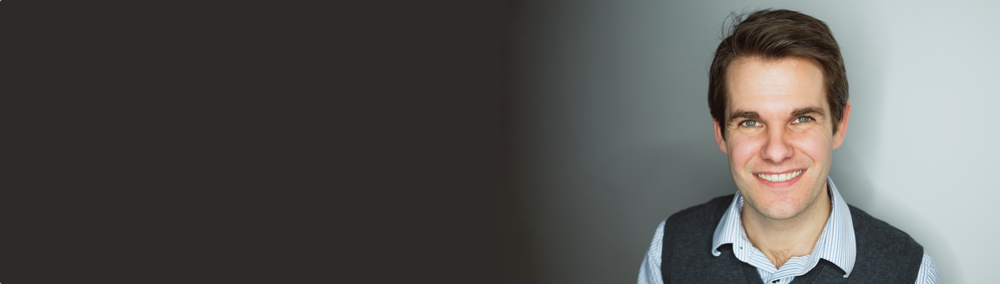
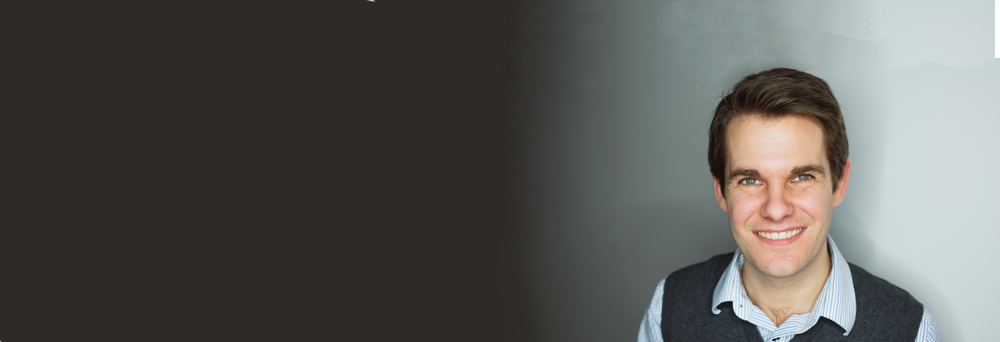
Layout for extremely basic site.

Changed region(s): [[0.62, 0.0282, 0.93, 1.0], [0.992, 0.0, 1.0, 0.169], [0.899, 0.9577, 0.93, 0.9859]]

diff --git a/_includes/header.html b/_includes/header.html
@@ -1,27 +1,10 @@
 <header class="site-header">
 
-  <div class="wrapper">
+  <div class="page-content">
 
     <a class="site-title" href="{{ site.baseurl }}/">
-        <img class='header-profile-image' src="/images/ryan.png" />
-        {{ site.title }}
+        <img class='header-profile-image' src="/images/logo.png" />
     </a>
-
-    <nav class="site-nav">
-      <a href="#" class="menu-icon">
-        <svg viewBox="0 0 18 15">
-          <path fill="#424242" d="M18,1.484c0,0.82-0.665,1.484-1.484,1.484H1.484C0.665,2.969,0,2.304,0,1.484l0,0C0,0.665,0.665,0,1.484,0 h15.031C17.335,0,18,0.665,18,1.484L18,1.484z"/>
-          <path fill="#424242" d="M18,7.516C18,8.335,17.335,9,16.516,9H1.484C0.665,9,0,8.335,0,7.516l0,0c0-0.82,0.665-1.484,1.484-1.484 h15.031C17.335,6.031,18,6.696,18,7.516L18,7.516z"/>
-          <path fill="#424242" d="M18,13.516C18,14.335,17.335,15,16.516,15H1.484C0.665,15,0,14.335,0,13.516l0,0 c0-0.82,0.665-1.484,1.484-1.484h15.031C17.335,12.031,18,12.696,18,13.516L18,13.516z"/>
-        </svg>
-      </a>
-
-      <div class="trigger">
-        <a class='page-link' href='/services.html'>services</a>
-        <a class='page-link' href='/blog.html'>articles</a>
-        <a class='page-link' href='/about.html'>speaking</a>
-      </div>
-    </nav>
 
   </div>
 

diff --git a/_sass/_layout.scss b/_sass/_layout.scss
@@ -1,19 +1,20 @@
+.wrapper {
+  padding: 20px;
+}
+
 /**
  * Site header
  */
 .site-header {
     border-top: 5px solid $grey-color-dark;
     border-bottom: 1px solid $grey-color-light;
-    min-height: 56px;
-    background-color: $grey-color-dark;
-    color: white;
+    background-color: white;
 
     // Positioning context for the mobile navigation icon
     position: relative;
 }
 
 .site-title {
-    font-family: "Rubik";
     text-transform: uppercase;
     font-weight: 900;
     font-size: 26px;
@@ -23,19 +24,22 @@
     margin-bottom: 0;
     letter-spacing: 1px;
     float: left;
-
-    &,
-    &:visited {
-        color: white;
-    }
 }
 
 .header-profile-image {
-    border-radius: 100%;
-    height: 26px;
-    border: solid 1px white;
-    margin-right: 5px;
+  height: 60px;
 }
+
+.site-header {
+  overflow: hidden;
+  padding: 20px 0;
+}
+
+.page-content {
+  max-width: 920px;
+  margin: auto;
+}
+
 
 .site-nav {
     float: right;
@@ -46,7 +50,6 @@
     }
 
     .page-link {
-        color: white;
         line-height: $base-line-height;
 
         // Gaps between nav items, but not on the last one

diff --git a/index.html b/index.html
@@ -5,26 +5,17 @@ layout: default
 <div class="home">
 
   <div class='hero-unit'>
-      <div class='hero-about'>
-        <h1>Hi, I'm Ryan.</h1>
-        <p>
-            I'm a web developer, agile coach, and jack-of-all-trades from Toronto. I'm here to help
-            your people, products and process scale.
-        </p>
-      </div>
+      <div class='page-content'>
+        <div class='hero-about'>
+          <h1>Hi, I'm Ryan.</h1>
+          <p>
+              I'm a web developer, agile coach, and jack-of-all-trades from Toronto. I'm here to help
+              your people, products and process scale.
+          </p>
+        </div>
+     </div>
   </div>
   
-  <div class='content'>
-    <h1>Recent Articles</h1>
-    <div class='article-preview-list'>
-    {% for post in site.posts %}
-        <div class='article-preview'>
-            <div class='article-preview-title'>{{ post.title }}</div>
-        </div>
-    {% endfor %}
-    </div>
-  </div>
-
-  <p class="rss-subscribe">subscribe <a href="{{ "/feed.xml" | prepend: site.baseurl }}">via RSS</a></p>
+  
 
 </div>

diff --git a/css/main.scss b/css/main.scss
@@ -16,7 +16,7 @@ $spacing-unit:     30px;
 
 $text-color:       #111;
 $background-color: #fdfdfd;
-$brand-color:      #2a7ae2;
+$brand-color:      #ff5014;
 
 $grey-color:       #828282;
 $grey-color-light: lighten($grey-color, 40%);
@@ -25,7 +25,7 @@ $grey-color-dark:  darken($grey-color, 25%);
 // Width of the content area
 $content-width:    800px;
 
-$on-palm:          600px;
+$on-palm:          500px;
 $on-laptop:        800px;
 
 
@@ -51,5 +51,4 @@ $on-laptop:        800px;
         "layout",
         "syntax-highlighting",
         "hero_unit",
-        "article_preview"
-;
+        "article_preview";

diff --git a/_includes/footer.html b/_includes/footer.html
@@ -1,4 +1,4 @@
-<footer class="site-footer">
+<footer class="site-footer page-content">
 
   <div class="wrapper">
 
@@ -7,7 +7,7 @@
     <div class="footer-col-wrapper">
       <div class="footer-col footer-col-1">
         <ul class="contact-list">
-          <li>{{ site.title }}</li>
+          <li>(416) 574-4345</li>
           <li><a href="mailto:{{ site.email }}">{{ site.email }}</a></li>
         </ul>
       </div>
@@ -28,9 +28,6 @@
         </ul>
       </div>
 
-      <div class="footer-col footer-col-3">
-        <p>{{ site.description }}</p>
-      </div>
     </div>
 
   </div>

diff --git a/_sass/_hero_unit.scss b/_sass/_hero_unit.scss
@@ -1,12 +1,20 @@
 .hero-unit {
-    padding: 30px;
     color: white;
     background-image: url("/images/headshot.png");
     background-position: right;
+    @include media-query($on-palm) {
+      background-position-x: -500px;
+    }
     background-repeat: no-repeat;
     background-color: #2e2a27;
-    height: 200px;
+    min-height: 225px;
     .hero-about {
         width: 50%;
+        padding: 10px;
+        
+        @include media-query($on-palm) {
+          background-color: rgba(46, 42, 39, 0.8);
+          background-position-x: -200px;
+        }
     }
 }

diff --git a/_layouts/default.html b/_layouts/default.html
@@ -7,11 +7,7 @@
 
     {% include header.html %}
 
-    <div class="page-content">
-      <div class="wrapper">
-        {{ content }}
-      </div>
-    </div>
+    {{ content }}
 
     {% include footer.html %}
 

diff --git a/_sass/_base.scss b/_sass/_base.scss
@@ -1,4 +1,4 @@
-@import url(https://fonts.googleapis.com/css?family=Lato:400,700,300|Rubik:900);
+@import url("https://fonts.googleapis.com/css?family=Lato:400,700,300");
 
 /**
  * Reset some basic elements
